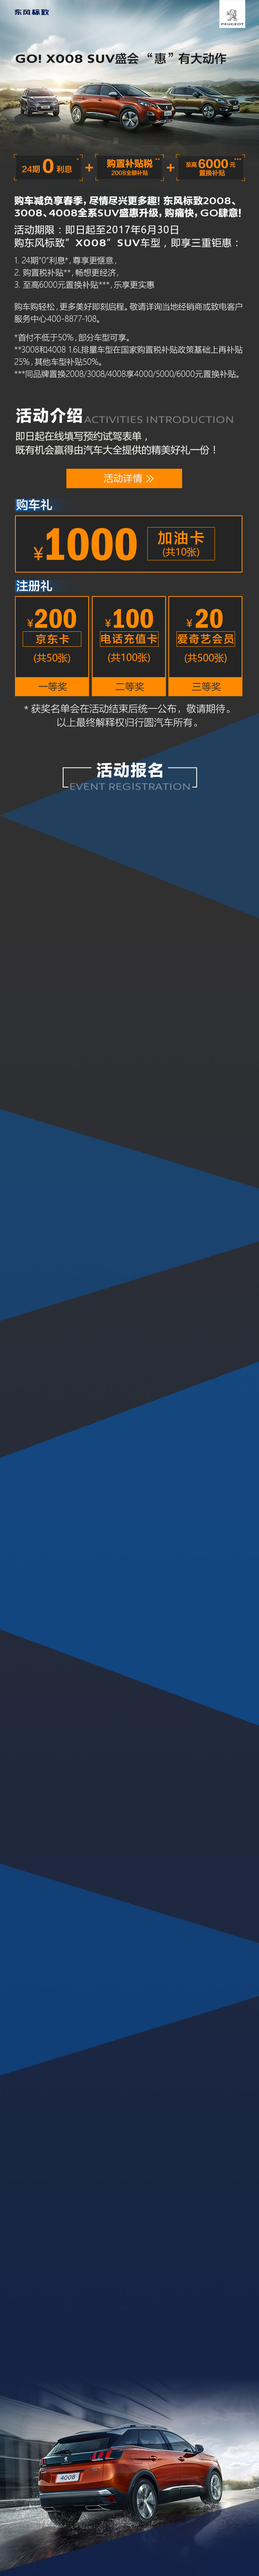
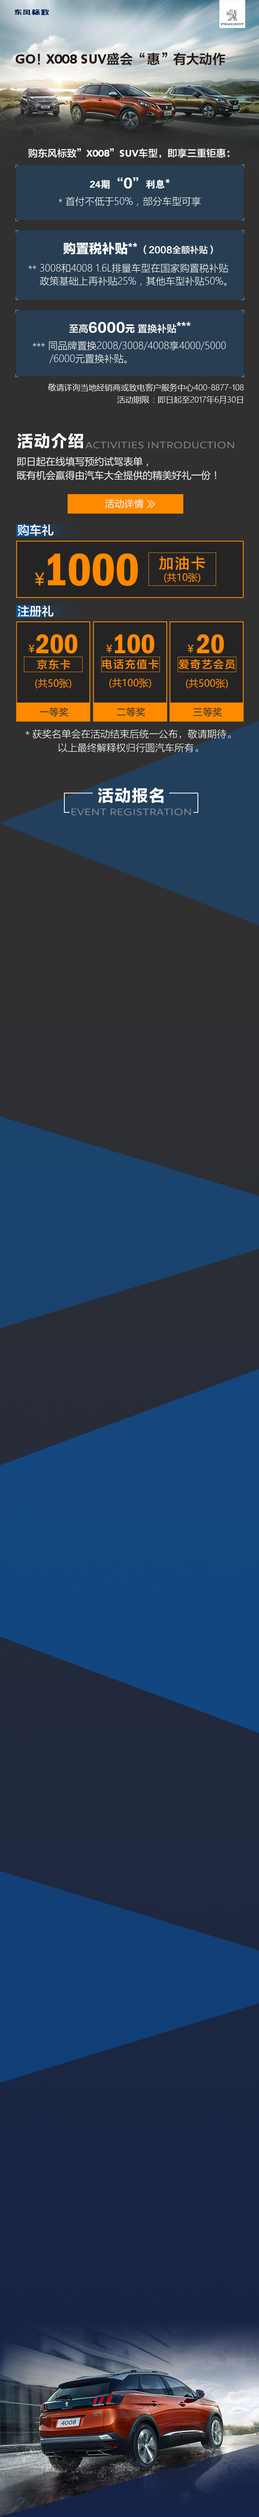
更新

diff --git a/peugeot/mb/css/style.css b/peugeot/mb/css/style.css
@@ -63,11 +63,11 @@ to { left:10.0rem; top: 5.5rem; opacity: 0}
 
 body{ background:#142550; }
 img{width:100%;}
-.container{width:100%;background: url(../images/bigBg.jpg) no-repeat;background-size:100% 100%;height:158.825rem;position:relative;overflow: hidden}
+.container{width:100%;background: url(../images/bigBg.jpg) no-repeat;background-size:100% 100%;height:155.225rem;position:relative;overflow: hidden}
 .scBtn,.hdBtn{width:7.2rem;height:1.25rem;position: absolute;left:4.05rem;}
 .scBtn{top:16.55rem;}
-.hdBtn{top:28.875rem;}
-.login{position:absolute;top:50.0rem;width:14.1rem;left:0.95rem;}
+.hdBtn{top:30.375rem}
+.login{position:absolute;top:50.775rem;width:14.1rem;left:0.95rem;}
 .login li{float:left;width:100%;height:2.05rem;background: #fff;margin-bottom:0.5rem;}
 .login li input{height:2.05rem;color:#333;width:100%;padding-left:0.675rem;font-size:0.7rem;}
 .login li select{background: url("../images/arrow.png") no-repeat 13.2rem center;background-size:0.425rem 0.4rem;height:2.05rem;color:#999999;width:100%;padding-left:0.675rem;font-size:0.7rem;}
@@ -78,7 +78,7 @@ img{width:100%;}
 .login h4{color:#8d8e90;font-size:12px;}
 .btn{margin-top:0.375rem}
 
-.main{position:absolute;top:71.85rem ;width:14.1rem;left:0.95rem;}
+.main{position:absolute;top:71.175rem ;width:14.1rem;left:0.95rem;}
 .editPost,.video{margin-top:1.9rem;}
 .editPost h2,.video h2{width:8.3rem;margin:0 auto;}
 .editPost p,.video p{margin-top:0.75rem;margin-bottom:0.25rem;}

diff --git a/peugeot/mb/html/index.html b/peugeot/mb/html/index.html
@@ -1,7 +1,7 @@
 <!DOCTYPE html>
 <html lang="zh-cn">
 <head>
-	<base href="./mb/html/">
+	<!-- <base href="./mb/html/"> -->
     <meta http-equiv="Content-Type"> 
     <meta content="text/html; charset=utf-8">
     <meta charset="utf-8">
@@ -32,9 +32,9 @@
     <div class="login">
         <ul>
             <li><input type="text" name="name" placeholder="姓名"></li>
-            <li>
+            <!-- <li>
                 <select id="sex" name="sexId"><option  value="1">先生</option><option value="2">女士</option></select>
-            </li>
+            </li> -->
             <li><input type="text"  name="phone" placeholder="手机"></li>
             <li class="xz">
                 <p><select  id="province"  name="provinceId"><option>省份</option></select></p>
